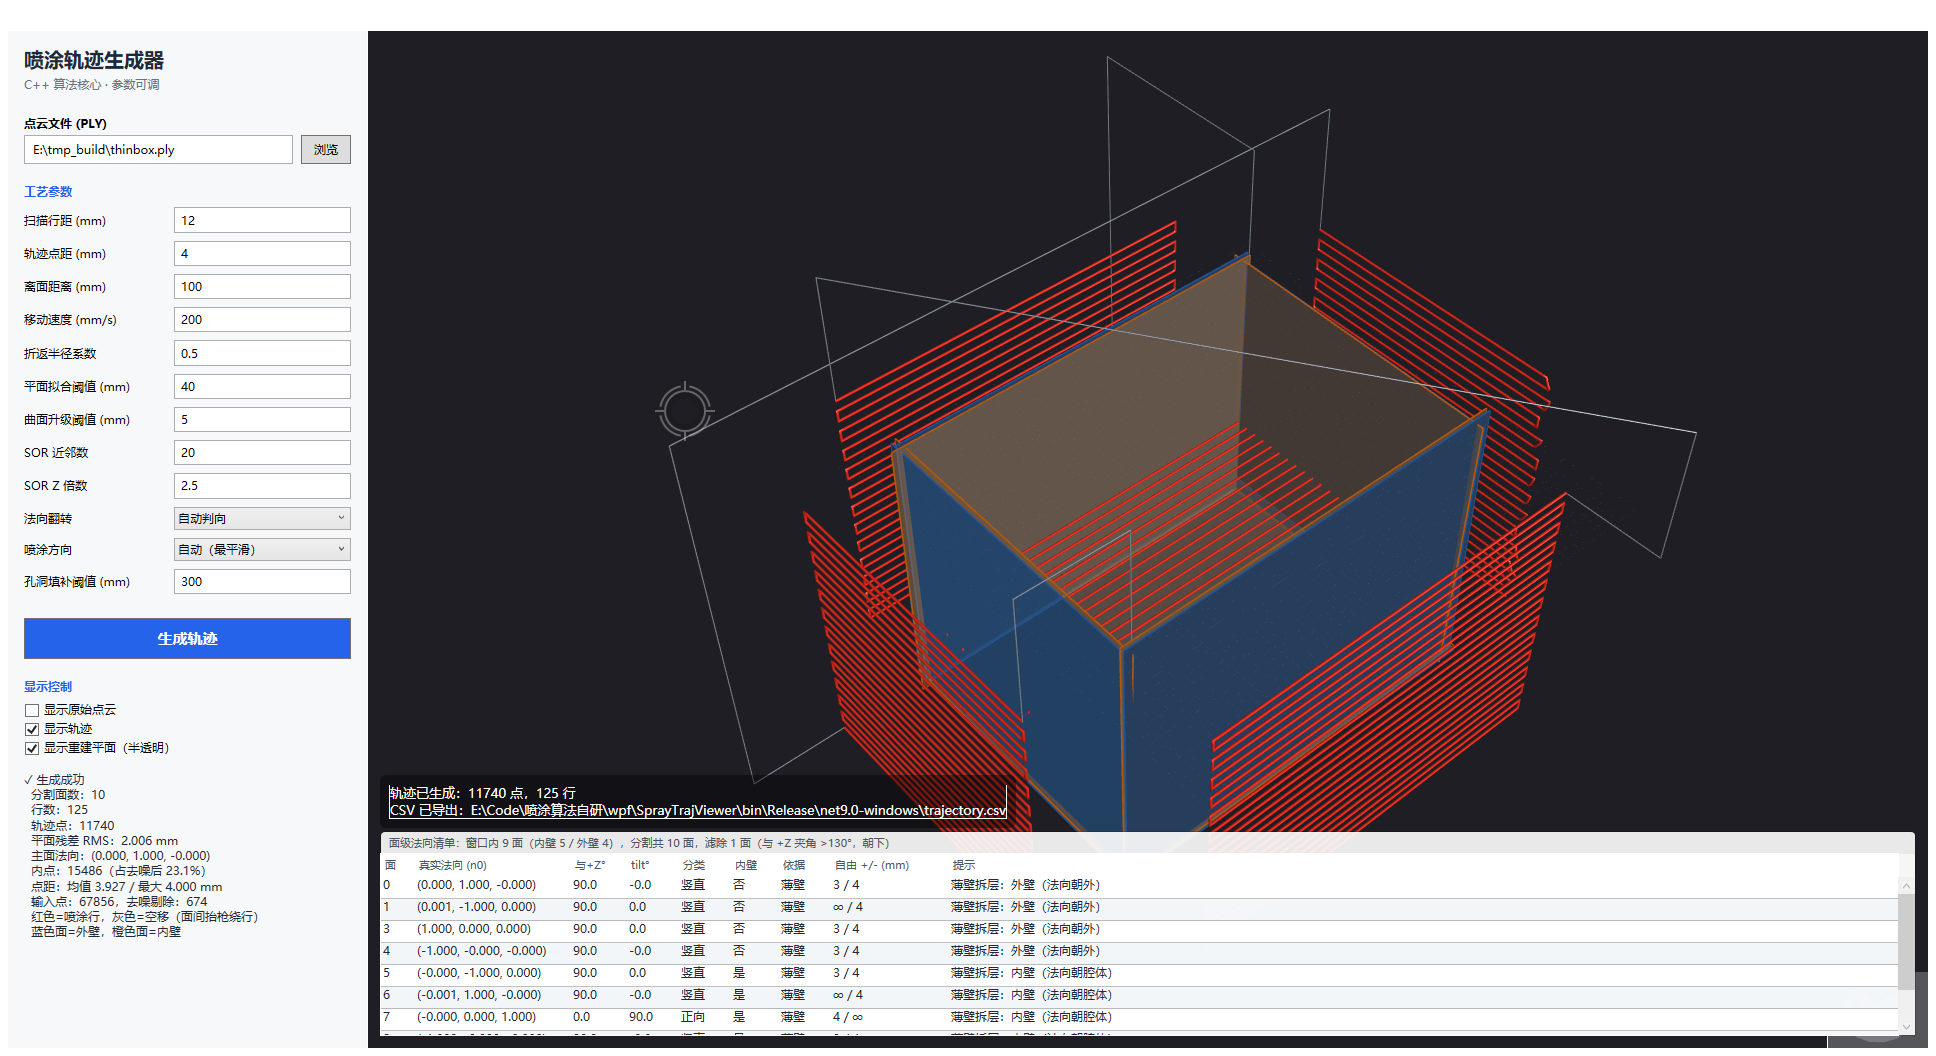
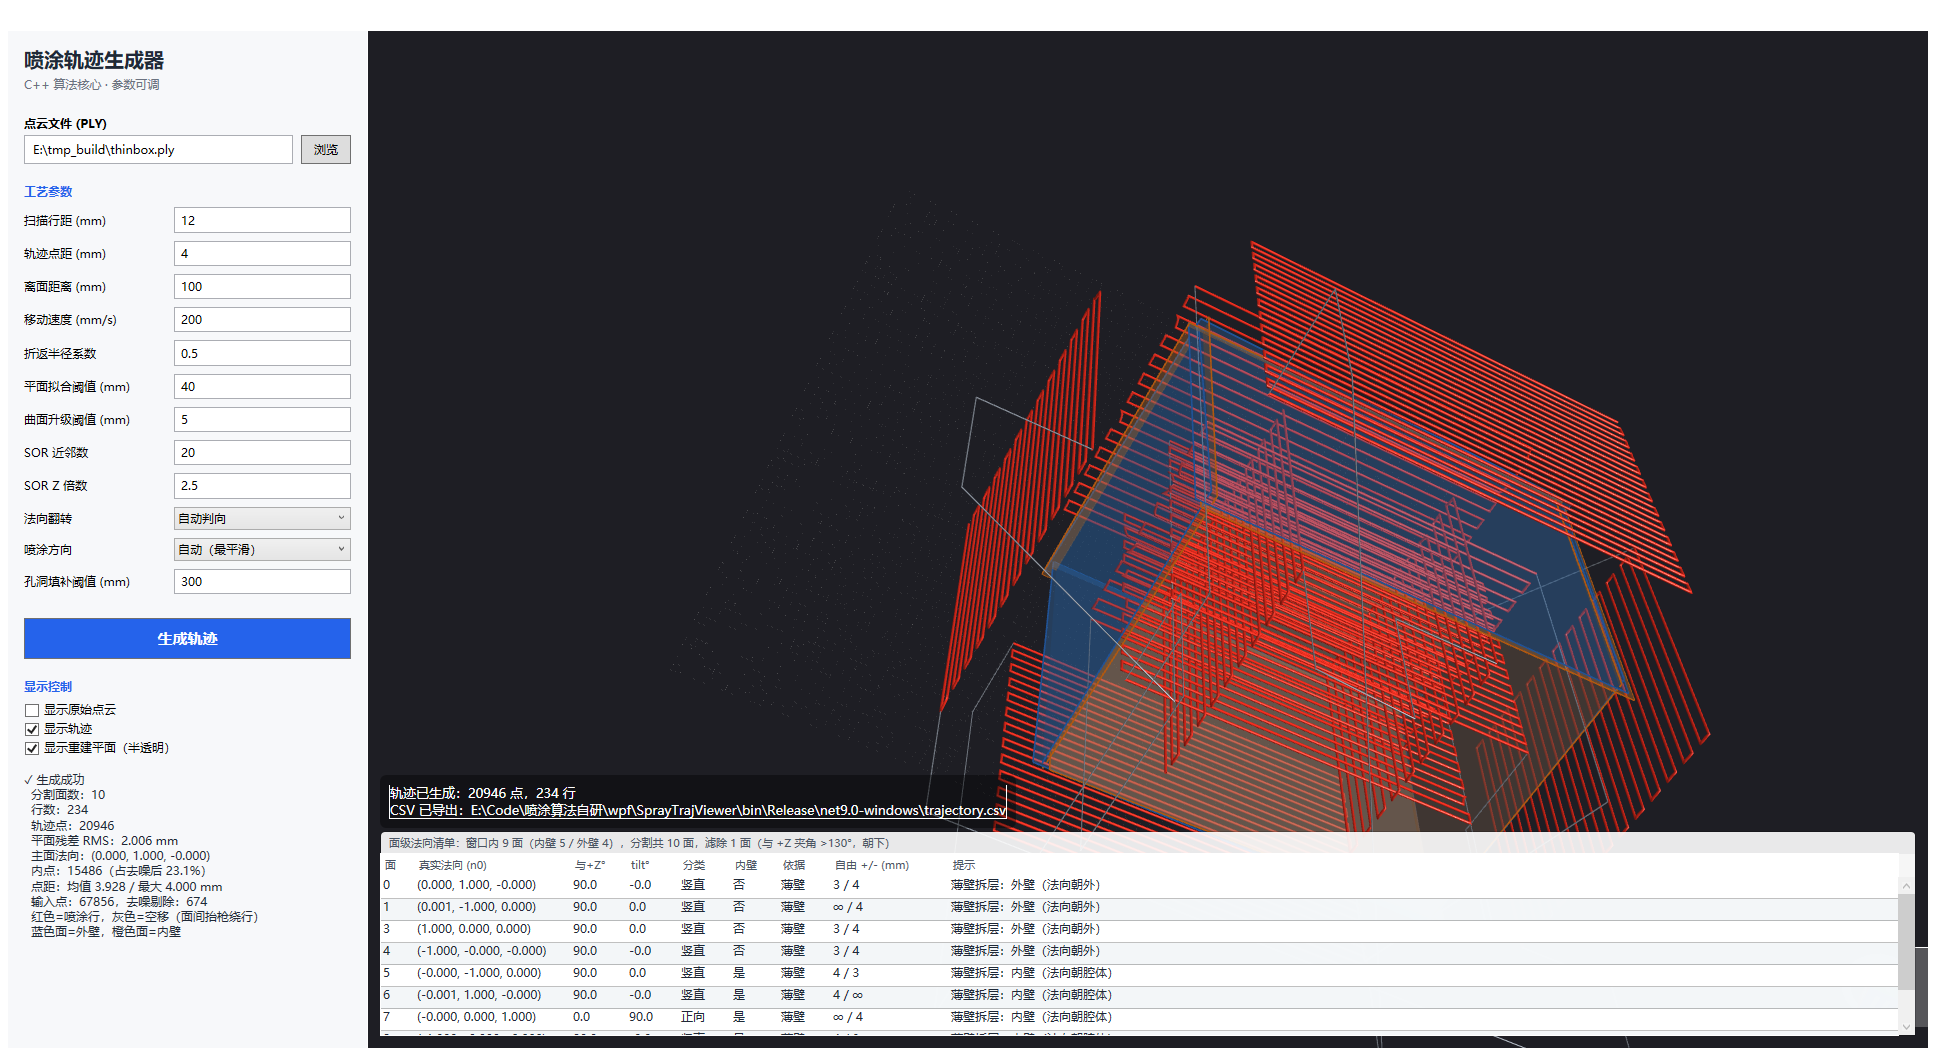
第二十轮：内壁轨迹（拆层下移到 segs + 枪位可达性过滤）
薄壁拆层原来只改 res.planes 输出行，而轨迹是按 segs 生成的，所以内壁
永远分不到轨迹——清单里有内壁、橙色面片上一根线都没有。

- 拆层下移到 segs：在法向定向之后把双层块拆成两个独立 PlaneSeg，
  外层 pl.n=nOut、内层 pl.n=-nOut（朝腔内），pl.c 各用层质心。
  拆完全部外层排前、内层排后，避免枪在工件内外交替穿。
  原来的输出层拆行代码（含 buildLayer）整块删掉——拆完的 segs 自己
  走面片重建，每层自然各出一块网格。
- 枪位可达性过滤：面点沿法向抬 standoff 后查最近工件点，<20mm 的
  不参与布行。只对内壁/内底生效。修掉两类干涉：
  · 内壁轨迹两端行内侵入相邻壁（最深 2mm）
  · 内壁首点贴壁时，面间过渡的垂直下降段整段穿墙（423mm 直线穿 300mm 壁）

thinbox 400x300x300 壁厚4：5 块→10 段，10 面全部出轨迹，
11740→20946 点、234 行；枪位外壁 x=-100/500 y=-100/400 z=-100、
内壁 x=104/296 y=104/196 z=104 全部正确；穿材料段 223→0。
内壁覆盖收到 x∈[24,376] z∈[27,291]，外壁/外底仍满覆盖。

回归 8 样本：bin/cao/curved/longstripe/zhe/tray 完全不变；
box 11788→11269、complex 4931→4794，均为内底/内壁角落被过滤。

diff --git a/cpp/SprayTrajCore/spray_traj.cpp b/cpp/SprayTrajCore/spray_traj.cpp
@@ -3621,6 +3621,100 @@ SPRAYTRAJ_API SprayTrajResult spray_traj_generate(
         reportCurved = (segs[bi].curved && isCurved);
     }
 
+    // ---- 薄壁双层拆段：一块面里同时装着内壁和外壁 ----
+    // 根因：分割阶段用无向法向(|dot|)做区域生长，壁的两层法向相反却被判成同向，
+    // 于是并成一块、块质心落在两层中间；射线沿两侧各走一个壁厚就撞到对面层，
+    // 两侧自由距离都 ≈ 壁厚且对称，靠距离永远分不出内外。
+    //
+    // 必须在**这里**拆：轨迹是按 seg 生成的，只在输出层拆行的话内壁永远分不到
+    // 轨迹（之前就是这样——清单里有内壁、橙色面片上一根线都没有）。拆成两个
+    // 独立 seg 后，内壁和普通平面一样走 2D 布行，区别只是法向朝腔内。
+    //
+    // 判据用"沿块法向投影的最大间隙"，不用射线结论：射线是从两层混合的块里
+    // 采样的，取点位置不同结论就会变（实测 5 块只命中 1 块）。间隙是几何事实。
+    {
+        std::vector<PlaneSeg> outerSegs, innerSegs;
+        outerSegs.reserve(segs.size());
+        innerSegs.reserve(segs.size());
+        int nSplit = 0;
+        for(size_t si2=0; si2<segs.size(); ++si2){
+            PlaneSeg& s = segs[si2];
+            if(s.curved || s.inl.size() < 60){ outerSegs.push_back(std::move(s)); continue; }
+            const Vec3 n = s.pl.n, c0 = s.pl.c;
+            std::vector<double> hh; hh.reserve(s.inl.size());
+            for(int k : s.inl) hh.push_back(dot(Pf[k]-c0, n));
+            std::sort(hh.begin(), hh.end());
+            // 只在"两侧各至少 30 点"的候选里找最大间隙：边缘离群点的间隙往往比
+            // 真正的层间间隙还大（实测最大间隙会落在排序后第 2 个点上）。
+            int gapAt = -1; double maxGap = 0.0;
+            for(size_t t=30; t+30<=hh.size(); ++t){
+                const double g = hh[t]-hh[t-1];
+                if(g > maxGap){ maxGap = g; gapAt = (int)t; }
+            }
+            // 单层平面的 h 散布只有噪声量级（~0.5mm），1.5mm 门限不会误切
+            if(gapAt < 0 || maxGap < 1.5){ outerSegs.push_back(std::move(s)); continue; }
+            const double hMid = 0.5*(hh[gapAt-1]+hh[gapAt]);
+            std::vector<int> lo, hi;
+            lo.reserve(s.inl.size()); hi.reserve(s.inl.size());
+            for(int k : s.inl) (dot(Pf[k]-c0, n) < hMid ? lo : hi).push_back(k);
+            if(lo.size() < 30 || hi.size() < 30){ outerSegs.push_back(std::move(s)); continue; }
+
+            auto cen=[&](const std::vector<int>& v){
+                Vec3 t{0,0,0};
+                for(int k : v) t = t + Pf[k];
+                return t*(1.0/(double)v.size());
+            };
+            const Vec3 cLo = cen(lo), cHi = cen(hi);
+            const bool hiOuter = len(cHi-partC) >= len(cLo-partC);   // 离质心远的一片在外
+            const Vec3 nOut = hiOuter ? n : n*(-1.0);
+            const double D2R = 3.141592653589793/180.0;
+
+            PlaneSeg so;
+            so.curved = false;
+            so.pl.n = nOut;
+            so.pl.c = hiOuter ? cHi : cLo;
+            so.pl.d = -dot(nOut, so.pl.c);
+            so.inl  = hiOuter ? std::move(hi) : std::move(lo);
+            so.fo   = s.fo;
+            so.fo.n = nOut;
+            so.fo.angZ = std::acos(std::max(-1.0,std::min(1.0,nOut.z)))/D2R;
+            so.fo.tilt = 90.0 - so.fo.angZ;
+            so.fo.side = (so.fo.angZ < 87.0) ? 1 : (so.fo.angZ > 93.0 ? -1 : 0);
+            so.fo.isInner = 0;
+            so.fo.src = 4;                                   // 4 = 薄壁拆层
+
+            PlaneSeg sn;
+            sn.curved = false;
+            sn.pl.n = nOut*(-1.0);                           // 内壁：可喷侧朝腔内
+            sn.pl.c = hiOuter ? cLo : cHi;
+            sn.pl.d = -dot(sn.pl.n, sn.pl.c);
+            sn.inl  = hiOuter ? std::move(lo) : std::move(hi);
+            sn.fo   = so.fo;
+            sn.fo.n = sn.pl.n;
+            sn.fo.angZ = std::acos(std::max(-1.0,std::min(1.0,sn.pl.n.z)))/D2R;
+            sn.fo.tilt = 90.0 - sn.fo.angZ;
+            sn.fo.side = (sn.fo.angZ < 87.0) ? 1 : (sn.fo.angZ > 93.0 ? -1 : 0);
+            sn.fo.isInner = 1;
+            sn.fo.src = 4;
+            std::swap(sn.fo.freePlus, sn.fo.freeMinus);       // 自由距离随法向一起翻
+
+            if(std::getenv("SPRAYTRAJ_FACE_DBG"))
+                fprintf(stderr, "[split] seg%zu 双层: 间隙=%.2fmm 外壁点=%d 内壁点=%d 外法向=(%.2f,%.2f,%.2f)\n",
+                        si2, maxGap, (int)so.inl.size(), (int)sn.inl.size(), nOut.x,nOut.y,nOut.z);
+            ++nSplit;
+            outerSegs.push_back(std::move(so));
+            innerSegs.push_back(std::move(sn));
+        }
+        // 顺序：先喷完所有外壁，再进腔喷内壁。
+        // 若按"外/内/外/内"交替，枪会在工件内外来回穿，每次都要走一遍抬枪绕行。
+        segs.clear();
+        segs.reserve(outerSegs.size()+innerSegs.size());
+        for(auto& s : outerSegs) segs.push_back(std::move(s));
+        for(auto& s : innerSegs) segs.push_back(std::move(s));
+        if(nSplit) fprintf(stderr, "[split] 薄壁拆段: %d 块 → %zu 段（含内壁 %d 面）\n",
+                           nSplit, segs.size(), nSplit);
+    }
+
     // 输出所有分割平面（供 WPF 显示重建面）
     // 为每个面计算局部基(u,v)主轴 + 内点包围盒，WPF 直接画矩形（不做 PCA 近似）
     res.plane_count = 0;
@@ -3851,151 +3945,6 @@ SPRAYTRAJ_API SprayTrajResult spray_traj_generate(
     }
     res.plane_count = (int)wi;
 
-    // ---- 薄壁双层拆行：一个面块里同时装着内壁和外壁 ----
-    // 根因：分割阶段用无向法向(|dot|)做区域生长，壁的两层法向相反却被判成同向，
-    // 于是被并成同一块，块质心正好落在两层中间。射线沿两侧各走一个壁厚就撞到
-    // 对面层，两侧自由距离都 ≈ 壁厚且对称，靠距离永远分不出内外。
-    // 这里按"沿块法向的投影 h"把点分成两片，各自算质心与朝向：
-    //   离工件质心更远的一片 = 外壁（法向背离质心），另一片 = 内壁（法向朝腔内）。
-    // 只改输出行、不动 segs，所以轨迹与拆行前逐字节一致。
-    {
-        const int baseCount = (int)wi;
-        for(int pi = 0; pi < baseCount; ++pi){
-            if(pi >= (int)planeSeg.size()) break;
-            const int si = planeSeg[pi];
-            if(si < 0 || si >= (int)segs.size()) continue;
-            const FaceOrient& fo = segs[si].fo;
-
-            const Vec3 n  = segs[si].pl.n;
-            const Vec3 c0 = segs[si].pl.c;
-            // 不依赖射线结论：直接把点沿块法向投影，排序后找最大间隙。
-            // 间隙 > 1.5mm = 该面块是两张平行面叠在一起（薄壁的内层 + 外层），
-            // 这是几何事实，比"两侧都近挡"这种由采样点位置决定的射线结论稳。
-            // 单层平面 h 的散布只有噪声量级（~0.5mm），不会被误切。
-            std::vector<double> hh;
-            hh.reserve(segs[si].inl.size());
-            for(int k : segs[si].inl) hh.push_back(dot(Pf[k] - c0, n));
-            std::sort(hh.begin(), hh.end());
-            int gapAt = -1; double maxGap = 0.0;
-            // 只在"两侧各至少 30 点"的候选里找：边缘那几个离群点的间隙往往比真正的
-            // 层间间隙还大（实测面0 的最大间隙落在排序后的第 2 个点上），会把判据带偏。
-            for(size_t t=30; t+30<=hh.size(); ++t){
-                const double g = hh[t] - hh[t-1];
-                if(g > maxGap){ maxGap = g; gapAt = (int)t; }
-            }
-            const bool twoLayer = (maxGap >= 1.5 && gapAt >= 30 && (int)hh.size()-gapAt >= 30);
-            if(std::getenv("SPRAYTRAJ_FACE_DBG"))
-                fprintf(stderr, "[layer] 面%d 点=%d maxGap=%.2f at=%d lo=%d hi=%d two=%d\n",
-                        pi, (int)hh.size(), maxGap, gapAt, gapAt,
-                        (int)hh.size()-gapAt, (int)twoLayer);
-            if(!twoLayer) continue;
-            const double hMid = 0.5 * (hh[gapAt-1] + hh[gapAt]);
-
-            std::vector<int> lo, hi;
-            lo.reserve(segs[si].inl.size());
-            hi.reserve(segs[si].inl.size());
-            for(int k : segs[si].inl)
-                (dot(Pf[k] - c0, n) < hMid ? lo : hi).push_back(k);
-            if(lo.size() < 30 || hi.size() < 30){
-                if(std::getenv("SPRAYTRAJ_FACE_DBG"))
-                    fprintf(stderr, "[split] 面%d 分不开: lo=%d hi=%d (gap=%.2f)\n",
-                            pi, (int)lo.size(), (int)hi.size(), maxGap);
-                continue;
-            }
-
-            auto cen = [&](const std::vector<int>& v){
-                Vec3 s{0,0,0};
-                for(int k : v) s = s + Pf[k];
-                return s * (1.0 / (double)v.size());
-            };
-            const Vec3 cHi = cen(hi), cLo = cen(lo);
-            // 离工件质心更远的一片是外壁
-            const bool hiIsOuter = len(cHi - partC) >= len(cLo - partC);
-            const Vec3 cOut = hiIsOuter ? cHi : cLo;
-            const Vec3 cIn  = hiIsOuter ? cLo : cHi;
-            const int  nOut = (int)(hiIsOuter ? hi.size() : lo.size());
-            const int  nIn  = (int)(hiIsOuter ? lo.size() : hi.size());
-            // 法向只能用面块自己的拟合法向 n（精确的轴向），符号由"哪一层在外"决定。
-            // 不能用 cOut-cIn：两层虽然平行，但点集在面内的分布不同（边缘点缺失、
-            // 残点归并不均），质心差里混着面内偏移量，归一化后会带出十几度假倾角。
-            const Vec3 nOutV = hiIsOuter ? n : n*(-1.0);   // 外壁：指向外层
-            const Vec3 nInV  = nOutV * (-1.0);             // 内壁：朝腔内
-
-            auto setRow = [&](int row, Vec3 c, Vec3 nn, Vec3 sprayDir, int cnt, int inner){
-                if(row < 0 || row >= SPRAYTRAJ_PLANE_SLOTS) return;
-                SprayTrajPlane& q = res.planes[row];
-                q.cx=c.x; q.cy=c.y; q.cz=c.z;
-                q.count=cnt;
-                q.nx=sprayDir.x; q.ny=sprayDir.y; q.nz=sprayDir.z;   // 该面应沿哪个方向抬枪
-                q.n0x=nn.x; q.n0y=nn.y; q.n0z=nn.z;
-                const double cc = std::max(-1.0, std::min(1.0, nn.z));
-                q.angZ = std::acos(cc) * 180.0 / 3.141592653589793;
-                q.tiltDeg = 90.0 - q.angZ;
-                q.side = (q.angZ < 87.0) ? 1 : (q.angZ > 93.0 ? -1 : 0);
-                q.isInner = inner;
-                q.sideSrc = 4;
-                q.freePlus  = fo.freePlus;
-                q.freeMinus = fo.freeMinus;
-            };
-
-            // 每一层各自出一块面片。
-            // 原来只保留整块的面片（两层合一、落在中面上），内壁行 polyVertCount 强制写 0，
-            // 结果 3D 里永远只看到一个面片，内外壁在视觉上根本分不开——清单有行、画面没面。
-            // 现在按层的点集单独重建轮廓，并把顶点沿块法向平移到该层真实高度
-            // （外层 +壁厚/2、内层 -壁厚/2），两层在 3D 里就各自独立可见。
-            const Vec3 u0{res.planes[pi].ux, res.planes[pi].uy, res.planes[pi].uz};
-            const Vec3 v0{res.planes[pi].vx, res.planes[pi].vy, res.planes[pi].vz};
-            auto buildLayer = [&](int row, const std::vector<int>& idx){
-                if(row < 0 || row >= SPRAYTRAJ_PLANE_SLOTS) return;
-                SprayTrajPlane& q = res.planes[row];
-                q.polyVertCount = 0; q.polyTriCount = 0;
-                if(idx.size() < 20 || len(u0) < 1e-6 || len(v0) < 1e-6) return;
-                std::vector<double> hlay; hlay.reserve(idx.size());
-                std::vector<Vec2> uv;     uv.reserve(idx.size());
-                for(int k : idx){
-                    Vec3 d = Pf[k] - c0;
-                    hlay.push_back(dot(d, n));
-                    uv.push_back(Vec2{ dot(d, u0), dot(d, v0) });
-                }
-                std::nth_element(hlay.begin(), hlay.begin()+hlay.size()/2, hlay.end());
-                const double hMed = hlay[hlay.size()/2];
-                std::vector<Vec2> verts; std::vector<int> tris;
-                const double cell = std::max(1.5, params->scanRowSpacing);
-                if(!build_plane_mesh(uv, cell, params->fillHoleSize, verts, tris,
-                                     SPRAYTRAJ_PLANE_MAX_POLY_VERTS,
-                                     SPRAYTRAJ_PLANE_MAX_POLY_TRIS))
-                    return;
-                int nv = std::min((int)verts.size(), SPRAYTRAJ_PLANE_MAX_POLY_VERTS);
-                for(int v=0; v<nv; ++v){
-                    Vec3 pos = c0 + u0*verts[v].x + v0*verts[v].y + n*hMed;
-                    q.polyVerts[v*3+0]=pos.x; q.polyVerts[v*3+1]=pos.y; q.polyVerts[v*3+2]=pos.z;
-                }
-                int nt = std::min((int)(tris.size()/3), SPRAYTRAJ_PLANE_MAX_POLY_TRIS);
-                for(int t=0; t<nt; ++t){
-                    q.polyTris[t*3+0]=tris[t*3+0];
-                    q.polyTris[t*3+1]=tris[t*3+1];
-                    q.polyTris[t*3+2]=tris[t*3+2];
-                }
-                q.polyVertCount=nv; q.polyTriCount=nt;
-                if(std::getenv("SPRAYTRAJ_FACE_DBG"))
-                    fprintf(stderr, "[layer] 面%d 层几何: 点=%d 顶点=%d 三角=%d 层高=%+.2fmm\n",
-                            row, (int)idx.size(), nv, nt, hMed);
-            };
-
-            setRow(pi, cOut, nOutV, nOutV, nOut, 0);     // 原行改成外壁
-            buildLayer(pi, hiIsOuter ? hi : lo);
-            const int nr = (int)wi;                      // 追加内壁行
-            if(nr < SPRAYTRAJ_PLANE_SLOTS){
-                std::memset(&res.planes[nr], 0, sizeof(SprayTrajPlane));
-                res.planes[nr].polyVertCount = 0;
-                res.planes[nr].polyTriCount  = 0;
-                setRow(nr, cIn, nInV, nInV, nIn, 1);
-                buildLayer(nr, hiIsOuter ? lo : hi);
-                ++wi;
-            }
-        }
-        res.plane_count = (int)wi;
-    }
 
     // 3. 对每个分割出的平面段，分别生成 S 形轨迹并拼接
     struct Row { double xs, xe, yc; int segIdx; };  // segIdx: 该行是扫描线与面交集的第几段（环形面会产生多段）
@@ -4222,6 +4171,34 @@ SPRAYTRAJ_API SprayTrajResult spray_traj_generate(
                         si, inl.size(), nr, angN, surf.rowGap, surf.cover*100.0);
             }
             continue;
+        }
+
+        // ---- 枪位可达性：内壁/内底在角落处，枪体会顶到相邻壁 ----
+        // 内壁的可喷侧朝腔内，枪得伸进腔里 standoff 才喷得到面。走到靠近相邻内壁
+        // 的边缘时，枪位已经嵌进那块壁里——实测开口盒内壁轨迹两端各约 4mm 宽、
+        // 最深 2mm 侵入；更糟的是内壁首点贴着壁时，面间过渡的"从安全高度垂直
+        // 下降"会整整穿过 300mm 高的壁（实测一段 423mm 的直线穿墙）。
+        // 判据：面点沿法向抬到枪位，查枪位到工件点云的最近距离，太近就不布行。
+        // 只对内壁/内底生效：外壁枪位在件外 standoff 处，最近点距离必然 >= standoff，
+        // 不会误删。
+        if(seg.fo.isInner > 0 && !inl.empty()){
+            const double gunClear = std::max(12.0, 0.2*params->standoff);
+            std::vector<int> keep; keep.reserve(inl.size());
+            int drop = 0;
+            for(int i : inl){
+                Vec3 q = Pf[i] + pl.n*params->standoff;
+                KnnBuf kb; partTree.knn(q, 1, kb);
+                double d = 1e30;
+                for(int t=0;t<kb.n;++t) if(kb.id[t]>=0) d = std::min(d, len(Pf[kb.id[t]]-q));
+                if(d < gunClear){ ++drop; continue; }
+                keep.push_back(i);
+            }
+            if(drop > 0 && keep.size() >= 20){
+                seg.inl.swap(keep);        // inl 是 seg.inl 的引用，内容随之更新
+                if(std::getenv("SPRAYTRAJ_FACE_DBG"))
+                    fprintf(stderr, "[gun] 面%zu 内壁: 枪位距件 <%.0fmm，剔除 %d 点，剩 %zu\n",
+                            si, gunClear, drop, seg.inl.size());
+            }
         }
 
         // 该平面的局部基

diff --git a/.workbuddy/memory/2026-10-21.md b/.workbuddy/memory/2026-10-21.md
@@ -204,3 +204,31 @@ box.ply 仍走原来的覆盖率路径（99.9% 达标）。
 - 回归 8 样本轨迹点数逐一不变；longstripe 滤除 1 个朝下面（165°）
 
 **遗留**：轨迹仍只在外表面（内壁 4 面 + 内底无轨迹），需把 n0 接进 standoff。
+
+## 11:45 内壁轨迹：拆层从"输出行"下移到 segs
+
+**做法**：拆层原来只改 `res.planes`（输出行），轨迹按 `segs` 生成，所以内壁永远分不到轨迹。
+现在在 `gen_trajectory` 里，法向定向 + 主面统计之后、`meshOk` 声明之前，把每个双层块
+拆成两个独立 `PlaneSeg`：外层 `pl.n = nOut`（离 partC 远的一片）、内层 `pl.n = -nOut`（朝腔内），
+`pl.c` 各用层质心，`pl.d = -dot(n, c)`。拆完全部外层排前、内层排后，避免枪在工件内外交替穿。
+判据仍是"沿块法向投影的最大间隙 ≥1.5mm 且两侧各 ≥30 点"。
+
+**新问题：内壁枪位在内腔，角落会顶到相邻壁**
+- 内壁轨迹两端各约 4mm 宽、最深 2mm 侵入相邻壁
+- 更糟：内壁首点贴壁时，面间过渡的"从安全高度垂直下降"整段穿墙（实测 423mm 直线穿 300mm 壁）
+
+**修法**：枪位可达性过滤。面点沿法向抬 standoff 得到枪位，查枪位到点云最近距离，
+< gunClear(=max(12, 0.2*standoff)=20mm) 的面点不参与布行。只对 `fo.isInner>0` 生效
+（外壁枪位在件外，最近点必然 ≥standoff）。`keep.size()<20` 时不替换，防止整面删光。
+
+**实测（thinbox 400×300×300 壁厚 4）**
+- 5 块 → 10 段，每面 21~25 行，轨迹 11740 → 20946 点
+- 枪位簇：外壁 x=-100/500、y=-100/400、z=-100；内壁 x=104/296、y=104/196、z=104 全部正确
+- 穿材料段 0（改前 223 段：222 段行内角落侵入 + 1 段 423mm 空移穿墙）
+- 内壁覆盖收到 x∈[24,376]、z∈[27,291]；外壁/外底仍满覆盖
+
+**回归 8 样本**：6 个完全不变（bin/cao/curved/longstripe/zhe/tray），
+box 11788→11269（-3 行）、complex 4931→4794（-1 行），都是内底/内壁角落被过滤，
+属修正而非退化。box 竖直内壁未被过滤是因为 keep=0 触发保护（该样本枪位普遍贴件）。
+
+**遗留**：内壁顶部约 9mm 未覆盖（行端点外扩不足）；gunClear 是常量，没有按枪体实际半径标定。
